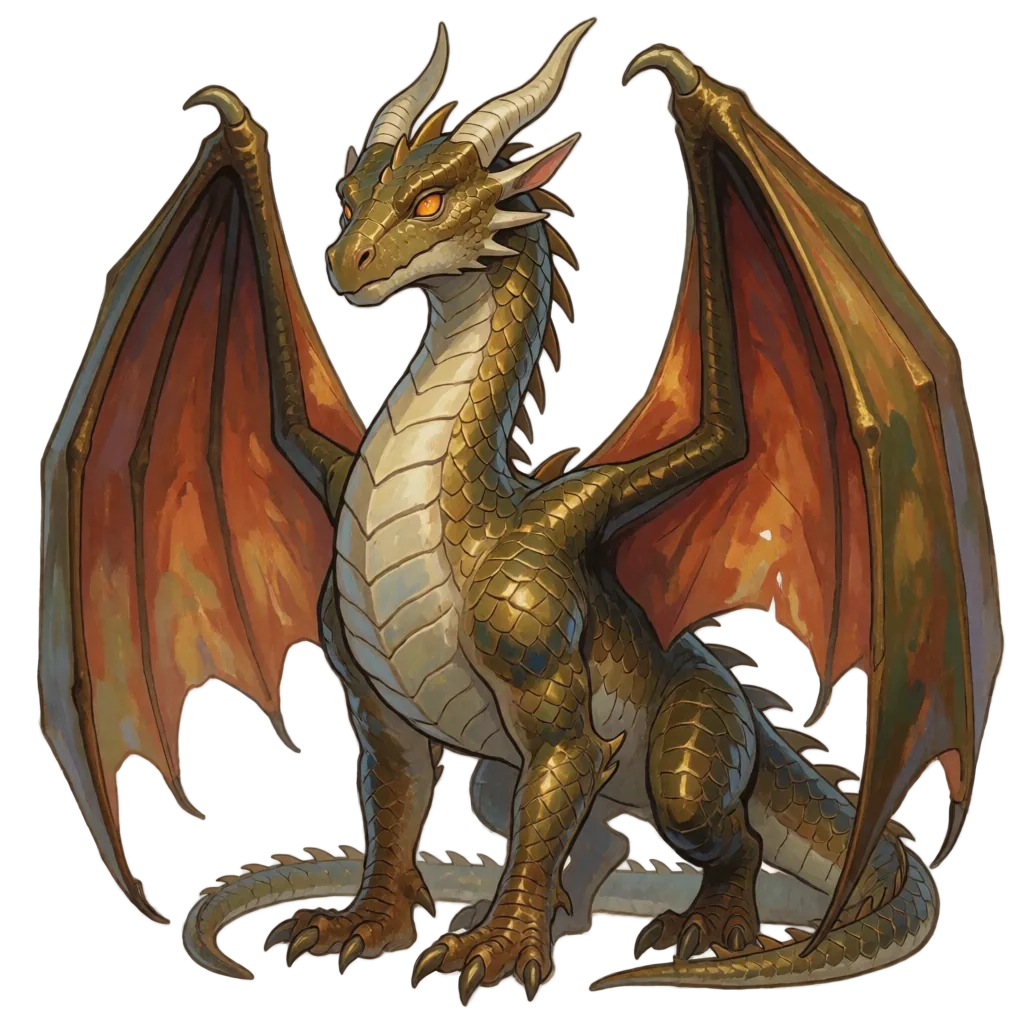
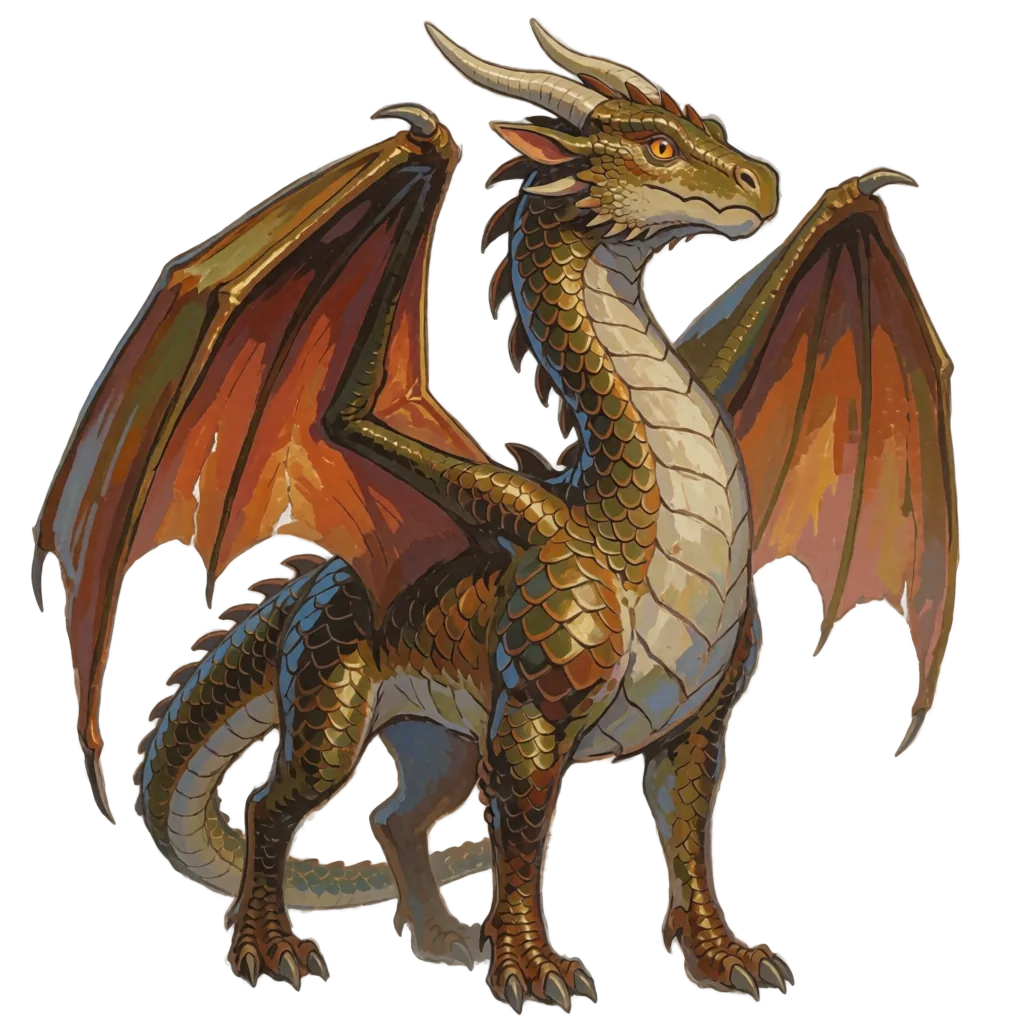
The dragon's six stages on the client: Dragon illustre and Dragon ancestral (labels, activities, painted cut-outs moved in from the art track with the redrawn adult, facing, sizes), three lines each in camp.enter and nest.enter, the words that said neutralisation grows the dragon rewritten, an unkno

diff --git a/web/e2e/scenes-nest.spec.ts b/web/e2e/scenes-nest.spec.ts
@@ -46,7 +46,7 @@ test('the dragon opens its care and speaks; locked tints say how to win them', a
   await expect(page).toHaveURL(/\/dragon\?panel=soin$/);
   const care = page.getByTestId('overlay-care');
   await expect(care.getByRole('heading', { name: 'Ton dragon', level: 2 })).toBeVisible();
-  await expect(care.getByTestId('overlay-voice')).toContainText("Je frémis dans la paille. J'éclorai quand une ruse d'Éris sera neutralisée.");
+  await expect(care.getByTestId('overlay-voice')).toContainText('Je frémis dans la paille. Encore quelques textes défendus, et je sors de ma coquille.');
   await expect(care).toContainText('Tu lui donneras un nom quand il éclora.');
   await expect(care.getByRole('heading', { name: 'Son nom' })).toHaveCount(0);
   await expect(care.getByTestId('dragon-tint-bronze')).toBeVisible();
@@ -136,4 +136,39 @@ test('nest: ?debug outlines the dragon; no red; rotate screen', async ({ page, r
   expect(await redScan(page)).toEqual([]);
   await page.setViewportSize({ width: 820, height: 1180 });
   await expect(page.getByTestId('rotate-screen')).toBeVisible();
+});
+
+// Spec 2026-09-29 dragon growth §3: each of the six stages in the straw bed, with its name and what it
+// is up to; the biggest stays clear of its growth sheet and below the HUD. The stage is set by
+// intercepting this hero's /camp (its XP is pinned by the server tests and world.spec).
+const STAGES = [
+  ['egg', 'Œuf', 'Il frémit dans sa coquille.'],
+  ['hatchling', 'Dragonnet', 'Il est curieux.'],
+  ['young', 'Jeune dragon', "Il s'entraîne à voler."],
+  ['adult', 'Dragon adulte', 'Il monte la garde.'],
+  ['illustre', 'Dragon illustre', 'Il veille sur le camp et raconte ses exploits.'],
+  ['ancestral', 'Dragon ancestral', 'Il lit les vieux parchemins et veille sur toi.'],
+] as const;
+
+test('the nest shows each of the six stages, clear of its growth sheet and of the HUD', async ({ page, request }, testInfo) => {
+  const id = await createProfileApi(request, heroName(testInfo.project.name));
+  let stage: string = 'egg';
+  await page.route(`**/api/profiles/${id}/camp`, async (route) => {
+    const res = await route.fetch();
+    const camp = await res.json();
+    camp.dragon = { ...camp.dragon, stage, name: stage === 'egg' ? null : 'Braise' };
+    await route.fulfill({ response: res, json: camp });
+  });
+  for (const [key, label, activity] of STAGES) {
+    stage = key;
+    await page.goto(`/#/p/${id}/dragon?debug`);
+    await page.reload();
+    await expectScene(page, 'nest');
+    await expect(page.getByTestId('nest-dragon-layer').locator('img')).toHaveAttribute('src', `/art/dragon/dragon_${key}_cut.webp`);
+    await expect(page.getByTestId('dragon-stage')).toHaveText(label);
+    await expect(page.getByTestId('nest-growth')).toContainText(activity);
+    const b = await measureBoxes(page, { growth: '[data-testid="nest-growth"]', layer: '[data-testid="nest-dragon-layer"] img', hud: 'header.hud' });
+    expect(b.growth!.x + b.growth!.width, `${key}: the growth sheet left of the dragon`).toBeLessThanOrEqual(b.layer!.x + 2);
+    expect(b.layer!.y, `${key}: the dragon's picture below the HUD`).toBeGreaterThanOrEqual(b.hud!.y + b.hud!.height - 2);
+  }
 });

diff --git a/web/src/lib/world/scenes/nest.test.ts b/web/src/lib/world/scenes/nest.test.ts
@@ -3,7 +3,7 @@ import { validateScene } from '../../scene/validate';
 import { LINES } from '../../dialogue/content';
 import { frenchSpacing } from '../../text/french';
 import { variantsOf } from '../../../testing/dialogue';
-import type { CampResponse, DragonOut } from '../types';
+import { DRAGON_STAGES, type CampResponse, type DragonOut } from '../types';
 import { NEST_HOTSPOTS, NEST_SCENE, careLine, growth, nestDragonLayer, nestGreeting } from './nest';
 
 const egg = { name: null, tint: 'bronze', stage: 'egg', neutralised: 0, available: 6, next_stage_at: 1, unlocked_tints: ['bronze'] } as DragonOut;
@@ -19,9 +19,9 @@ describe("dragon's nest (UI3 Ruling B5)", () => {
 
   it('seats the dragon in the straw bed, bigger as it grows', () => {
     expect(nestDragonLayer('egg')).toMatchObject({ x: 50, y: 62, depth: 1 });
-    const widths = (['egg', 'hatchling', 'young', 'adult'] as const).map((s) => nestDragonLayer(s).scale);
-    expect(widths).toEqual([...widths].sort((a, b) => a - b));
-    expect(widths[3]).toBeLessThanOrEqual(34);
+    const widths = DRAGON_STAGES.map((s) => nestDragonLayer(s).scale);
+    expect(widths.every((w, i) => i === 0 || w > widths[i - 1]), 'bigger at every stage').toBe(true);
+    expect(widths[5]).toBeLessThanOrEqual(34);
   });
 
   it('asks for a name once it has hatched, and says who it is otherwise', () => {
@@ -43,7 +43,7 @@ describe("dragon's nest (UI3 Ruling B5)", () => {
     expect(nestGreeting({ ...egg, stage: 'hatchling' })[0]).toMatchObject({ key: 'nest.name' });
     expect(variantsOf('nest.name')).toContain(nestGreeting({ ...egg, stage: 'hatchling' })[0].text);
     expect(nestGreeting({ ...egg, stage: 'hatchling', name: 'Braise' })[0]).toMatchObject({ key: 'nest.enter', name: 'Braise' });
-    expect(careLine(egg)).toMatchObject({ speaker: 'dragon', text: "Je frémis dans la paille. J'éclorai quand une ruse d'Éris sera neutralisée." });
+    expect(careLine(egg)).toMatchObject({ speaker: 'dragon', text: 'Je frémis dans la paille. Encore quelques textes défendus, et je sors de ma coquille.' });
     expect(careLine({ ...egg, stage: 'hatchling' }).text).toBe('Ici, tu peux me donner un nom et choisir ma teinte.');
     expect(careLine({ ...egg, stage: 'young', name: 'Braise' }).text).toBe('Admire-moi\u202f! Tu peux changer ma teinte quand tu veux.');
     for (const d of [egg, { ...egg, stage: 'young' as const, name: 'Braise' }]) expect(careLine(d).text.length).toBeLessThanOrEqual(160);

diff --git a/web/src/lib/dialogue/content.test.ts b/web/src/lib/dialogue/content.test.ts
@@ -4,7 +4,7 @@ import { describe, expect, it } from 'vitest';
 import { readdirSync, readFileSync } from 'node:fs';
 import { FORBIDDEN, lieutenantName } from '../world/eris';
 import { SCENES } from '../world/scenes';
-import { LIEUTENANT_ORDER } from '../world/types';
+import { DRAGON_STAGES, LIEUTENANT_ORDER } from '../world/types';
 import { GENDERED, GUILT, banned, erisSelfMasculine } from '../../testing/copyRules';
 import { LINES, TOURS, parseDialogueFile } from './content';
 import { DIALOGUE_KEYS, PLACEHOLDERS, TOUR_IDS, type DialogueCtx, type DialogueKey, type LineDef } from './types';
@@ -18,7 +18,7 @@ const every: { where: string; line: LineDef }[] = [
 
 // The contexts each key is asked in (default: none): every one must have at least three lines to
 // pick from, so « no immediate repeat » always has somewhere to go.
-const STAGES = ['egg', 'hatchling', 'young', 'adult'].map((stage) => ({ stage }) as DialogueCtx);
+const STAGES = DRAGON_STAGES.map((stage) => ({ stage }) as DialogueCtx);
 const DOMAINS: Partial<Record<DialogueKey, DialogueCtx[]>> = {
   // UI5 playability #13: the camp's greeting grows with the dragon (without camp data: the generic).
   'camp.enter': [{}, ...STAGES],
@@ -56,10 +56,16 @@ describe('the dialogue content (spec §8)', () => {
       const scene = SCENES.find((s) => s.id === id)!;
       const ringable = [...scene.hotspots.map((h) => h.id), ...Object.keys(scene.tourAreas ?? {})];
       for (const step of TOURS[id]) if (step.target) expect(ringable, `${id}: ${step.target}`).toContain(step.target);
-      for (const stage of ['egg', 'hatchling', 'young', 'adult'] as const) {
+      for (const stage of DRAGON_STAGES) {
         expect(TOURS[id].filter((s) => !s.when || s.when.stage?.includes(stage)).length, `${id} ${stage}`).toBeGreaterThanOrEqual(2);
       }
     }
+  });
+
+  it('names only the six dragon stages in a when.stage (a typo would never speak, silently)', () => {
+    const file = (stage: string[]) => ({ lines: { 'nest.enter': [{ speaker: 'dragon', when: { stage }, text: 'Un mot.' }] } });
+    expect(() => parseDialogueFile('nest.json', file(['illustré']))).toThrow(/when\.stage/);
+    expect(() => parseDialogueFile('nest.json', file(['illustre', 'ancestral']))).not.toThrow();
   });
 
   it('uses only the placeholders each key declares', () => {

diff --git a/web/src/lib/world/dragon.test.ts b/web/src/lib/world/dragon.test.ts
@@ -1,4 +1,5 @@
 import { describe, it, expect } from 'vitest';
+import { DRAGON_STAGES } from './types';
 import { LOCKED_EGG_FILTER, TINT_FILTERS, TINT_SWATCH, dragonCaption, eggFilter, stageActivity, stageLabel, stageLine, validName } from './dragon';
 
 describe('dragon helpers', () => {
@@ -9,6 +10,8 @@ describe('dragon helpers', () => {
   it('labels and lines', () => {
     expect(stageLabel('egg')).toBe('Œuf');
     expect(stageLabel('adult')).toBe('Dragon adulte');
+    expect(DRAGON_STAGES.map(stageLabel)).toEqual(['Œuf', 'Dragonnet', 'Jeune dragon', 'Dragon adulte', 'Dragon illustre', 'Dragon ancestral']);
+    expect(dragonCaption({ name: null, stage: 'ancestral' })).toBe('Dragon ancestral');
     expect(dragonCaption({ name: null, stage: 'egg' })).toBe('Un œuf de dragon');
     expect(dragonCaption({ name: null, stage: 'young' })).toBe('Jeune dragon');
     expect(dragonCaption({ name: 'Braise', stage: 'young' })).toBe('Braise');
@@ -20,7 +23,7 @@ describe('dragon helpers', () => {
     expect(stageLine('young', 'Braise', 1)).toBe("Je bats des ailes\u202f! Encore 1 ruse d'Éris à neutraliser.");
     expect(stageLine('young', 'Braise', 0)).toBe("Je bats des ailes\u202f! Toutes les ruses d'Éris sont neutralisées, pour l'instant.");
     expect(stageLine('adult', 'Braise', null)).toBe("Je veille sur le camp. Éris n'a qu'à bien se tenir.");
-    for (const st of ['egg', 'hatchling', 'young', 'adult'] as const) {
+    for (const st of DRAGON_STAGES) {
       expect(stageLine(st, 'Braise', 2)).not.toMatch(/Braise|Ton dragon|technique/);
     }
   });
@@ -29,6 +32,8 @@ describe('dragon helpers', () => {
     expect(stageActivity('hatchling')).toBe('Il est curieux.');
     expect(stageActivity('young')).toBe("Il s'entraîne à voler.");
     expect(stageActivity('adult')).toBe('Il monte la garde.');
+    expect(stageActivity('illustre')).toBe('Il veille sur le camp et raconte ses exploits.');
+    expect(stageActivity('ancestral')).toBe('Il lit les vieux parchemins et veille sur toi.');
   });
   it('tints a won egg and greys a locked one (fix round 1: on the egg picture only)', () => {
     expect(eggFilter('ecume', true)).toBe(TINT_FILTERS.ecume);

diff --git a/web/src/lib/world/scenes/nest.ts b/web/src/lib/world/scenes/nest.ts
@@ -40,7 +40,8 @@ export const NEST_SCENE: SceneDef = {
   preload: [ART.scenes.hubCamp],
 };
 
-const WIDTH: Record<DragonStage, number> = { egg: 10, hatchling: 16, young: 21, adult: 26 };
+// R11: the nest's dragon spot is x 34-68; the square picture at 28 % keeps its top below the HUD.
+const WIDTH: Record<DragonStage, number> = { egg: 10, hatchling: 16, young: 21, adult: 26, illustre: 27, ancestral: 28 };
 
 /** The dragon's cut-out in the straw bed (docs/art/scenes.md: feet at y 62, centred at x 50). */
 export function nestDragonLayer(stage: DragonStage): Omit<SceneLayerDef, 'id' | 'src' | 'alt'> {
@@ -63,7 +64,7 @@ export function nestGreeting(d: DragonOut): DialogueLine[] {
 /** What the dragon says from its care overlay's voice plate (Ruling B5, immersion #23), in the
  *  first person under its own plate (UI3b playability #15). */
 export function careLine(d: DragonOut): DialogueLine {
-  if (d.stage === 'egg') return dragonSays(d, "Je frémis dans la paille. J'éclorai quand une ruse d'Éris sera neutralisée.");
+  if (d.stage === 'egg') return dragonSays(d, "Je frémis dans la paille. Encore quelques textes défendus, et je sors de ma coquille.");
   // UI5 playability #12: the nest's greeting has already asked (`nest.name`); here is where she names it.
   if (!d.name) return dragonSays(d, 'Ici, tu peux me donner un nom et choisir ma teinte.');
   return dragonSays(d, 'Admire-moi\u202f! Tu peux changer ma teinte quand tu veux.');

diff --git a/web/src/lib/world/scenes/camp.test.ts b/web/src/lib/world/scenes/camp.test.ts
@@ -1,6 +1,6 @@
 import { describe, expect, it } from 'vitest';
 import { validateScene } from '../../scene/validate';
-import type { CampResponse, LieutenantState, QuestOut, WorldCatalog } from '../types';
+import { DRAGON_STAGES, type CampResponse, type LieutenantState, type QuestOut, type WorldCatalog } from '../types';
 import { nextStep, HUB_PLACE } from '../nextStep';
 import { prophecyWhen } from '../prophecy';
 import { variantsOf } from '../../../testing/dialogue';
@@ -137,7 +137,8 @@ describe('the hub on hub_camp.webp (UI3 Ruling B3)', () => {
 
   it('seats the dragon in the painted nest, on a shallow plane; preloads every place it leads to', () => {
     expect(campDragonLayer('egg')).toMatchObject({ x: 17, y: 55, depth: 1 });
-    expect(campDragonLayer('adult').scale).toBeGreaterThan(campDragonLayer('egg').scale);
+    const widths = DRAGON_STAGES.map((s) => campDragonLayer(s).scale);
+    expect(widths.every((w, i) => i === 0 || w > widths[i - 1]), 'bigger at every stage').toBe(true);
     // Final review M14: none of the hub's destinations loads cold on its first tap.
     expect(CAMP_SCENE.preload).toEqual([
       '/art/scenes/library_tent.webp',

diff --git a/web/src/lib/dialogue/content.ts b/web/src/lib/dialogue/content.ts
@@ -8,6 +8,7 @@ import war from '@content/dialogue/war.json';
 import nest from '@content/dialogue/nest.json';
 import cabin from '@content/dialogue/cabin.json';
 import battle from '@content/dialogue/battle.json';
+import { DRAGON_STAGES } from '../world/types';
 import { DIALOGUE_KEYS, TOUR_IDS, type DialogueFile, type DialogueKey, type LineDef, type TourId, type TourStepDef } from './types';
 
 const SPEAKERS = new Set(['dragon', 'pythia', 'owl', 'eris']);
@@ -22,6 +23,9 @@ function checkLine(where: string, x: unknown, tour: boolean): LineDef | TourStep
     const w = o.when as Record<string, unknown>;
     for (const [k, v] of Object.entries(w)) {
       if (!WHEN_KEYS.has(k) || !Array.isArray(v) || v.length === 0) throw new Error(`${where}: bad when.${k}`);
+      if (k === 'stage' && (v as unknown[]).some((s) => !(DRAGON_STAGES as readonly unknown[]).includes(s))) {
+        throw new Error(`${where}: bad when.stage ${JSON.stringify(v)}`);
+      }
     }
   }
   if (tour && !(o.target === null || typeof o.target === 'string')) throw new Error(`${where}: bad target`);

diff --git a/web/src/lib/battle/battle.ts b/web/src/lib/battle/battle.ts
@@ -41,9 +41,9 @@ export const BACKDROPS: Record<BackdropId, { src: string; feetY: number; particl
  *  mirrors a combatant that does not look toward the other side (Ruling C10). A frontal figure
  *  (Écho, Protée, les Sirènes, Léthé) is 'left': it is never mirrored on the right. The Hydra's heads
  *  and the Chimera's goat and snake heads look right (its lion faces us). The dragon's stages
- *  disagree: the hatchling and the young dragon look right, the adult left; the egg is symmetric. */
+ *  all look right (the adult was redrawn in the young dragon's pose in sub-project 3); the egg is symmetric. */
 export const FACES: Record<OpponentId, Facing> & { dragon: Record<DragonStage, Facing> } = {
-  dragon: { egg: 'right', hatchling: 'right', young: 'right', adult: 'left' },
+  dragon: { egg: 'right', hatchling: 'right', young: 'right', adult: 'right', illustre: 'right', ancestral: 'right' },
   eris: 'left',
   hydre: 'right',
   echo: 'left',

diff --git a/web/src/lib/battle/battle.test.ts b/web/src/lib/battle/battle.test.ts
@@ -58,7 +58,9 @@ describe('who fights where (Ruling C2)', () => {
   it('knows which way each painted cut-out looks, the dragon per stage (Ruling C10)', () => {
     // Checked by eye on web/public/art (UI4 Task 1). The dragon's stages disagree: the hatchling and
     // the young dragon look right, the adult left; the egg is symmetric.
-    expect(FACES.dragon).toEqual({ egg: 'right', hatchling: 'right', young: 'right', adult: 'left' });
+    // Checked by eye on web/public/art (UI4 Task 1) and docs/art/progression-stages.png (sub-project 3):
+    // the redrawn adult, the illustre and the ancestral keep the young dragon's three-quarter pose.
+    expect(FACES.dragon).toEqual({ egg: 'right', hatchling: 'right', young: 'right', adult: 'right', illustre: 'right', ancestral: 'right' });
     expect(FACES.hydre).toBe('right');
     expect(FACES.eris).toBe('left');
   });

diff --git a/web/src/lib/world/art.test.ts b/web/src/lib/world/art.test.ts
@@ -1,6 +1,6 @@
 import { describe, it, expect } from 'vitest';
 import { existsSync, readFileSync, readdirSync, statSync } from 'node:fs';
-import type { WorldCatalog } from './types';
+import { DRAGON_STAGES, type WorldCatalog } from './types';
 import {
   ADD_ICONS,
   ART,
@@ -34,6 +34,11 @@ describe('art map', () => {
 
   it('total non-scene art payload stays under 2.5 MB', () => {
     expect(nonScene().reduce((s, p) => s + statSync('public' + p).size, 0)).toBeLessThan(2.5 * 1024 * 1024);
+  });
+
+  it('paints the dragon at each of its six stages (spec 2026-09-29 dragon growth §3)', () => {
+    expect(Object.keys(ART.dragon)).toEqual([...DRAGON_STAGES]);
+    for (const s of DRAGON_STAGES) expect(ART.dragon[s]).toBe(`/art/dragon/dragon_${s}_cut.webp`);
   });
 
   it('artFor resolves and throws on unknown keys', () => {

diff --git a/web/src/lib/world/types.ts b/web/src/lib/world/types.ts
@@ -8,7 +8,9 @@ import type { Profile } from '../types';
 export const LIEUTENANT_ORDER = ['hydre', 'echo', 'chimere', 'protee', 'sirenes', 'lethe'] as const;
 export type LieutenantKey = (typeof LIEUTENANT_ORDER)[number];
 
-export type DragonStage = 'egg' | 'hatchling' | 'young' | 'adult';
+/** Spec 2026-09-29 dragon growth §1: the six stages, in order (server/app/world/dragon.py STAGE_ORDER). */
+export const DRAGON_STAGES = ['egg', 'hatchling', 'young', 'adult', 'illustre', 'ancestral'] as const;
+export type DragonStage = (typeof DRAGON_STAGES)[number];
 export type Tint = 'bronze' | 'ecume' | 'olivier' | 'braise' | 'jade' | 'argent';
 export type QuestKind = 'board' | 'oracle' | 'boss';
 export type QuestStatus = 'active' | 'done' | 'shelved' | 'expired';

diff --git a/web/src/lib/world/bestiary.ts b/web/src/lib/world/bestiary.ts
@@ -233,7 +233,7 @@ export const BESTIARY: BestiaryEntry[] = [
       'Le dragon de Colchide gardait la Toison d\'or\u202f; Médée l\'endormit pour que Jason puisse la prendre.',
     ],
     sources: 'Hésiode, Théogonie\u202f; Apollonios de Rhodes, Argonautiques, IV\u202f; Apollodore, Bibliothèque, II, 5.',
-    inGame: "Au camp, ton dragon est une créature inventée pour le jeu, cousine lointaine de Ladon\u202f: il grandit à chaque ruse d'Éris que tu neutralises.",
+    inGame: "Au camp, ton dragon est une créature inventée pour le jeu, cousine lointaine de Ladon\u202f: il grandit avec chaque texte que tu défends, de l'œuf au dragon ancestral.",
   },
 ];
 
